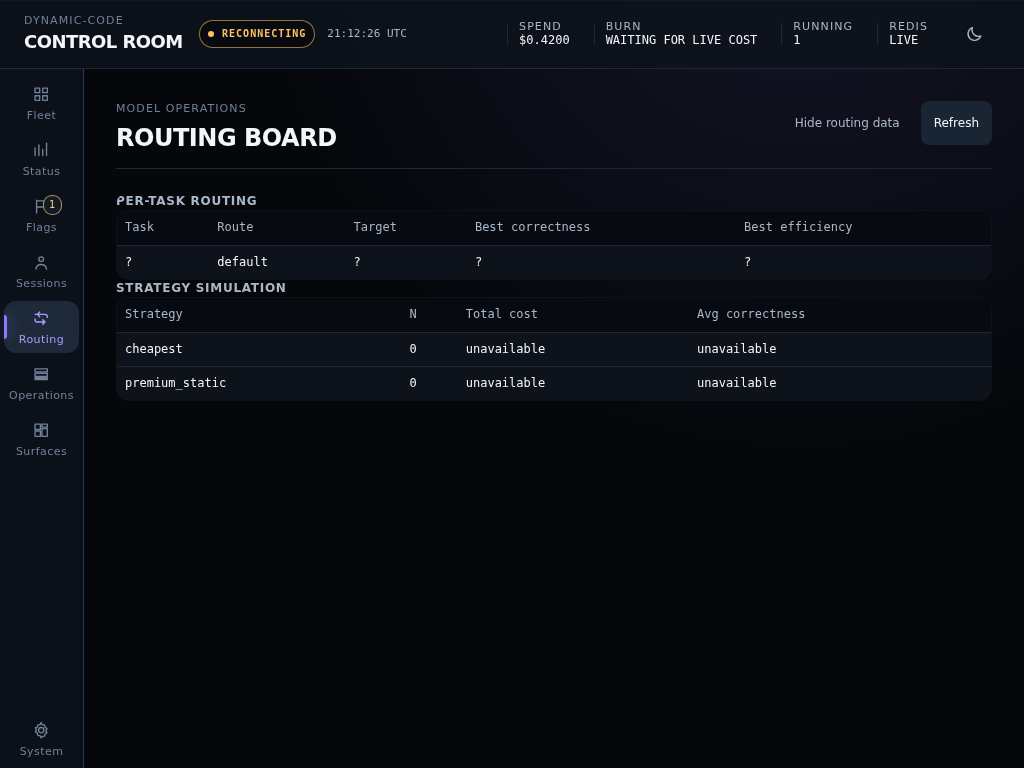
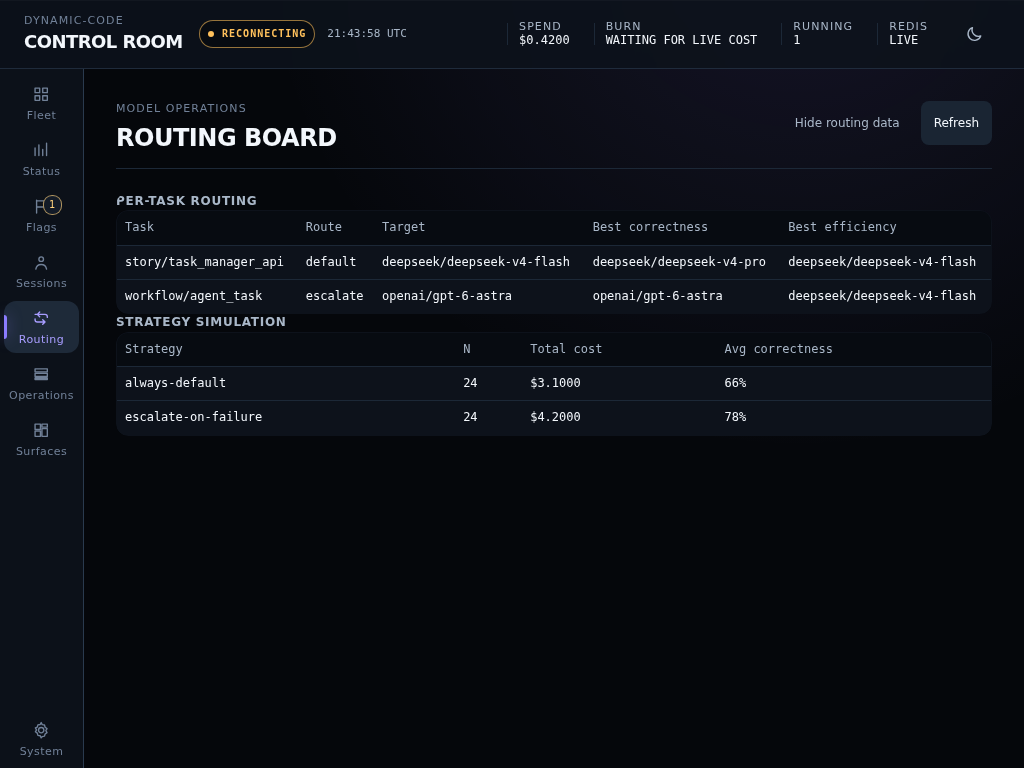
control room: rebind the acceptance evidence to 53bee3428
The review-round re-run: PASS, candidate verified against HEAD, 21 captures, and the report
now states the executed coverage (navigation/loading/degraded/scrolling/keyboard) with the
omitted checks labeled — mobile/forced-colors/contrast/first-paint are no longer claimed.

diff --git a/apps/control_room/verification/gate_report.md b/apps/control_room/verification/gate_report.md
@@ -6,10 +6,11 @@
 **Executed classes:** navigation, loading, degraded, scrolling, keyboard
 **Omitted classes:** none
 **Fixtures:** boards (restored) + F-0..F-7 (legacy parked; deterministic, no live Redis/clock/network — waiver W2)
-**Viewports:** desktop 1440x900, narrow 1024x768, mobile 390x844
-**Themes:** dark, light, forced-colors
-**Primitives:** present/unique · in-viewport · non-zero box · scrollable pages (vertical) · no horizontal overflow · WCAG-AA contrast · first-paint · console-clean
-**Candidate:** b89210424 (verified against the checkout HEAD)
+**Viewports exercised:** desktop, narrow
+**Themes exercised:** dark, light
+**Coverage executed:** navigation: seven destinations, exactly one visible board, aria-current, no horizontal overflow, every board captured (desktop dark+light, narrow dark) · loading: first visit and reload for Operations/Surfaces/Routing; each endpoint requested exactly once; rendered fixture values asserted; delayed and failed routing responses settle (loading state refused by the readiness predicate) · degraded: an unreadable control db reads 'unavailable', never 0; a failed read model names its reason and URL while its siblings render · scrolling: real wheel input reaches the last below-fold run row; an overflow-y:hidden page fails the same check · keyboard: Enter opens the run drawer with focus on its close control; Escape closes it and returns focus to the originating row
+**Coverage omitted:** mobile viewport (390x844), forced-colors theme, WCAG-AA contrast, first-paint timing, charts, visuals, style, a11y, parity, live, interactions (legacy parked classes)
+**Candidate:** 53bee3428 (verified against the checkout HEAD)
 
 **Screenshots:** 21 (boards-degraded 1, boards-keyboard 2, boards-loading 1, boards-navigation 17)
 
